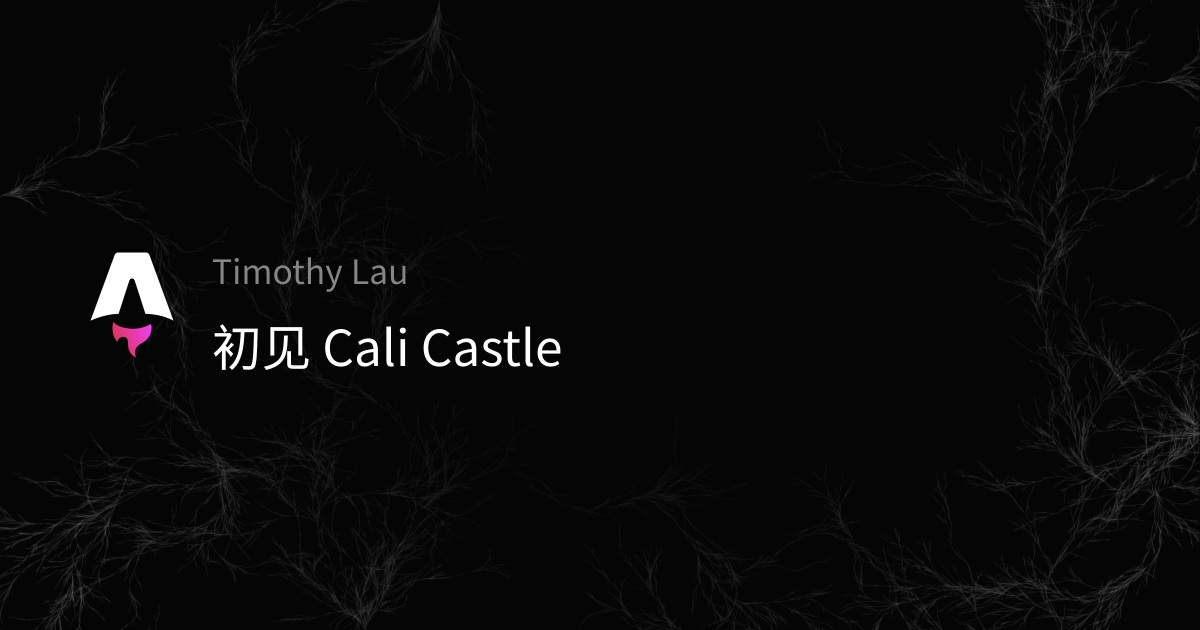
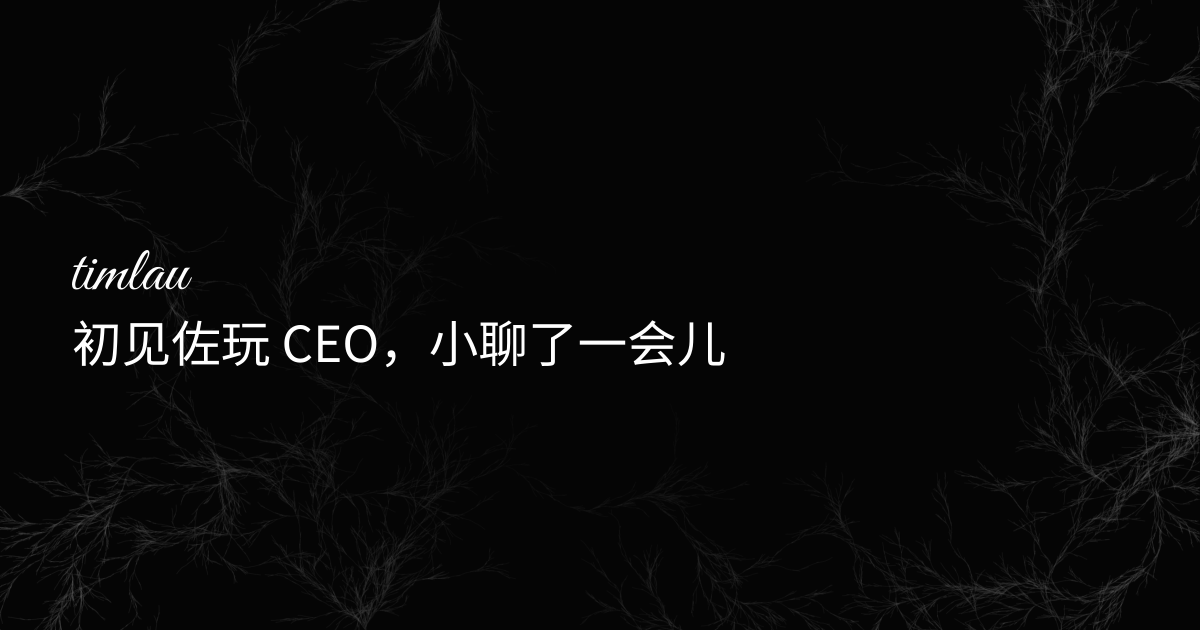
feat: update blog metadata to enable Giscus comments for multiple posts

Changed region(s): [[0.0617, 0.3921, 0.6167, 0.6032]]

diff --git a/plugins/og-template/markup.ts b/plugins/og-template/markup.ts
@@ -4,7 +4,7 @@ import backgroundBase64 from './base64'
 import type { BgType } from '../../src/types'
 
 export const ogImageMarkup = (
-  authorOrBrand: string,
+  _authorOrBrand: string,
   title: string,
   bgType: BgType
 ) => {
@@ -24,40 +24,21 @@ export const ogImageMarkup = (
     />
 
     <div tw="flex items-center justify-start w-full px-18" style="gap: 20px">
-      <div tw="self-start flex justify-center items-center">
-        <svg
-          xmlns="http://www.w3.org/2000/svg"
-          width="7.5em"
-          height="7.5em"
-          viewBox="0 0 32 32"
-        >
-          <path
-            fill="url(#vscodeIconsFileTypeAstro0)"
-            d="M11.025 20.499c-.532 1.75-.154 4.184 1.105 5.331v-.042l.042-.112c.154-.741.756-1.203 1.526-1.175c.713.014 1.12.392 1.217 1.217c.042.308.042.616.056.938v.098c0 .7.196 1.371.588 1.959c.35.56.84.993 1.497 1.287l-.028-.056l-.028-.112c-.49-1.469-.14-2.49 1.147-3.358l.392-.266l.868-.573a4.25 4.25 0 0 0 1.791-3.037c.07-.532 0-1.05-.154-1.553l-.21.14c-1.945 1.035-4.17 1.4-6.325.98c-1.301-.197-2.56-.56-3.498-1.652z"
-          ></path>
-          <path
-            fill="#fff"
-            d="M4.925 20.191s3.736-1.82 7.486-1.82l2.84-8.759c.098-.42.406-.7.756-.7s.644.28.756.714l2.826 8.746c4.45 0 7.487 1.82 7.487 1.82L20.709 2.84c-.168-.518-.49-.84-.896-.84h-7.612c-.406 0-.7.322-.896.84z"
-          ></path>
-          <defs>
-            <linearGradient
-              id="vscodeIconsFileTypeAstro0"
-              x1="8.19"
-              x2="16.91"
-              y1="23"
-              y2="18.89"
-              gradientTransform="translate(-.673 -2.198)scale(1.3993)"
-              gradientUnits="userSpaceOnUse"
-            >
-              <stop offset="0" stop-color="#d83333"></stop>
-              <stop offset="1" stop-color="#f041ff"></stop>
-            </linearGradient>
-          </defs>
-        </svg>
-      </div>
-
       <div tw="flex flex-col" style="gap: 10px">
-        <div tw="text-[#858585] text-2.1rem">${authorOrBrand}</div>
+        <svg
+          width="7.5rem"
+          height="2.5rem"
+          viewBox="0 0 237 82"
+          xmlns="http://www.w3.org/2000/svg"
+          aria-hidden="true"
+        >
+          <g id="svgGroup" class="dark:fill-[#fdfdfd]" fill="#fdfdfd">
+            <path
+              vector-effect="non-scaling-stroke"
+              d="M29.696 12.928C28.5867 14.5493 27.3493 16.5973 25.984 19.072C24.6187 21.5467 23.3387 23.936 22.144 26.24C21.0347 28.544 20.1813 30.2933 19.584 31.488H31.36C31.36 31.8293 31.1893 32.384 30.848 33.152C30.592 33.92 30.0373 34.4747 29.184 34.816H18.048C17.024 37.12 15.8293 39.8933 14.464 43.136C13.184 46.3787 11.904 49.7493 10.624 53.248C9.42934 56.7467 8.40534 60.032 7.55201 63.104C6.78401 66.0907 6.40001 68.5227 6.40001 70.4C6.40001 72.96 6.74134 74.88 7.42401 76.16C8.10668 77.3547 9.34401 77.952 11.136 77.952C13.44 77.952 15.6587 76.8427 17.792 74.624C19.9253 72.32 21.9307 69.4613 23.808 66.048C25.7707 62.6347 27.4773 59.2213 28.928 55.808C29.952 55.808 30.464 56.192 30.464 56.96C29.5253 59.264 28.3733 61.7813 27.008 64.512C25.6427 67.2427 24.064 69.888 22.272 72.448C20.5653 74.9227 18.6027 76.9707 16.384 78.592C14.2507 80.128 11.8613 80.896 9.21601 80.896C5.63201 80.896 3.20001 79.9147 1.92001 77.952C0.640011 75.904 1.04904e-05 73.3013 1.04904e-05 70.144C1.04904e-05 67.84 0.426677 65.0667 1.28001 61.824C2.13334 58.496 3.15734 55.0827 4.35201 51.584C5.63201 48.0853 6.86934 44.8427 8.06401 41.856C9.25868 38.784 10.1973 36.4373 10.88 34.816H2.68801C2.68801 34.1333 2.98668 33.408 3.58401 32.64C4.18134 31.872 4.82134 31.488 5.50401 31.488H12.288C12.9707 30.1227 13.7387 28.416 14.592 26.368C15.5307 24.32 16.768 22.0587 18.304 19.584C19.584 17.536 21.2053 15.9147 23.168 14.72C25.216 13.5253 27.392 12.928 29.696 12.928ZM32.534 80.512C29.3767 80.512 27.158 79.616 25.878 77.824C24.598 75.9467 23.958 73.8133 23.958 71.424C23.958 70.144 24.086 68.864 24.342 67.584C24.6833 66.2187 25.0673 64.9813 25.494 63.872L34.07 41.984C34.326 41.3013 34.454 40.704 34.454 40.192C34.454 39.3387 34.2407 38.6133 33.814 38.016C33.3873 37.3333 33.0887 36.864 32.918 36.608L39.958 36.352C41.238 36.2667 42.134 36.4373 42.646 36.864C43.2433 37.2053 43.542 37.632 43.542 38.144C43.542 38.656 43.2433 39.5947 42.646 40.96C41.7927 43.008 40.6407 45.568 39.19 48.64C37.7393 51.712 36.2887 54.8693 34.838 58.112C33.4727 61.3547 32.278 64.384 31.254 67.2C30.3153 70.016 29.846 72.192 29.846 73.728C29.846 74.8373 30.102 75.776 30.614 76.544C31.2113 77.312 32.1927 77.696 33.558 77.696C35.35 77.696 37.0993 77.0133 38.806 75.648C40.598 74.1973 42.262 72.3627 43.798 70.144C45.334 67.9253 46.742 65.536 48.022 62.976C49.3873 60.416 50.5393 58.0267 51.478 55.808C52.502 55.808 53.014 56.192 53.014 56.96C52.1607 59.0933 51.0513 61.5253 49.686 64.256C48.3207 66.9867 46.742 69.5893 44.95 72.064C43.2433 74.4533 41.3233 76.4587 39.19 78.08C37.142 79.7013 34.9233 80.512 32.534 80.512ZM43.926 28.416C42.8167 28.416 41.8353 27.9893 40.982 27.136C40.214 26.2827 39.83 25.2587 39.83 24.064C39.83 22.6133 40.4273 21.3333 41.622 20.224C42.8167 19.0293 44.1393 18.432 45.59 18.432C46.7847 18.432 47.8087 18.816 48.662 19.584C49.5153 20.352 49.942 21.3333 49.942 22.528C49.942 24.064 49.3447 25.4293 48.15 26.624C46.9553 27.8187 45.5473 28.416 43.926 28.416ZM39.034 81.152C42.1913 75.0933 45.178 69.0347 47.994 62.976C50.81 56.832 53.6687 51.0293 56.57 45.568C58.2767 42.496 59.6847 40.3627 60.794 39.168C61.9887 37.888 63.5673 37.248 65.53 37.248C66.2127 37.248 66.938 37.376 67.706 37.632C68.474 37.8027 69.242 37.888 70.01 37.888C70.522 37.888 70.906 37.8453 71.162 37.76C69.9673 38.4427 68.4313 40.1493 66.554 42.88C64.6767 45.5253 62.7567 48.5973 60.794 52.096C58.8313 55.5947 57.082 58.88 55.546 61.952C57.1673 59.9893 58.8313 58.0267 60.538 56.064C62.33 54.1013 64.2927 52.224 66.426 50.432C68.3033 48.8107 70.266 47.0613 72.314 45.184C74.4473 43.2213 76.538 41.5573 78.586 40.192C80.634 38.8267 82.426 38.144 83.962 38.144C84.5593 38.144 84.9433 38.1867 85.114 38.272C86.7353 38.9547 87.546 40.064 87.546 41.6C87.546 42.112 87.3327 42.88 86.906 43.904C85.7967 46.8053 84.346 49.792 82.554 52.864C80.8473 55.8507 79.226 58.88 77.69 61.952C78.97 60.416 80.5487 58.5387 82.426 56.32C84.3887 54.1013 86.3513 52.1387 88.314 50.432C90.1913 48.7253 92.5807 46.9333 95.482 45.056C98.3833 43.1787 101.242 41.5573 104.058 40.192C106.874 38.8267 109.135 38.144 110.842 38.144C111.439 38.144 111.866 38.1867 112.122 38.272C112.122 38.272 111.653 39.1253 110.714 40.832C109.775 42.4533 108.581 44.6293 107.13 47.36C105.765 50.0053 104.357 52.864 102.906 55.936C101.455 58.9227 100.133 61.824 98.938 64.64C97.8287 67.3707 97.1033 69.6747 96.762 71.552C96.506 72.6613 96.378 73.6853 96.378 74.624C96.378 75.9893 96.634 76.8853 97.146 77.312C97.658 77.7387 98.2127 77.952 98.81 77.952C100.517 77.952 102.181 77.2267 103.802 75.776C105.509 74.3253 107.173 72.4907 108.794 70.272C110.415 67.968 111.866 65.536 113.146 62.976C114.511 60.416 115.663 58.0267 116.602 55.808C117.626 55.808 118.138 56.192 118.138 56.96C117.199 59.264 116.005 61.824 114.554 64.64C113.189 67.3707 111.61 69.9733 109.818 72.448C108.026 74.9227 106.063 76.9707 103.93 78.592C101.797 80.2133 99.4927 81.024 97.018 81.024C95.226 81.024 93.5193 80.4267 91.898 79.232C90.362 78.0373 89.594 75.8187 89.594 72.576C89.594 69.0773 90.4047 65.5787 92.026 62.08C93.7327 58.5813 95.482 55.3813 97.274 52.48C98.1273 51.0293 98.554 49.8773 98.554 49.024C98.554 48 98.042 47.488 97.018 47.488C96.1647 47.488 94.97 47.9147 93.434 48.768C91.9833 49.6213 90.1487 51.1147 87.93 53.248C86.5647 54.528 84.9433 56.32 83.066 58.624C81.274 60.8427 79.4393 63.2747 77.562 65.92C75.6847 68.5653 74.0633 71.168 72.698 73.728C71.3327 76.288 70.4367 78.5493 70.01 80.512C68.73 80.512 67.706 80 66.938 78.976C66.17 77.8667 65.786 76.5867 65.786 75.136C65.786 74.88 65.786 74.624 65.786 74.368C65.786 74.112 65.8287 73.8133 65.914 73.472C66.3407 70.8267 67.0233 68.608 67.962 66.816C68.9007 64.9387 69.9673 62.7627 71.162 60.288C71.7593 59.1787 72.442 57.8987 73.21 56.448C73.978 54.912 74.6607 53.4613 75.258 52.096C75.8553 50.6453 76.154 49.4507 76.154 48.512C76.154 47.6587 75.8127 47.232 75.13 47.232C74.362 47.232 73.338 47.616 72.058 48.384C70.8633 49.152 69.7113 50.048 68.602 51.072C67.4927 52.0107 66.6393 52.736 66.042 53.248C63.9087 55.296 61.306 58.24 58.234 62.08C55.2473 65.92 51.962 71.3813 48.378 78.464C47.866 79.4027 47.2687 80 46.586 80.256C45.9033 80.4267 44.8367 80.512 43.386 80.512C42.4473 80.512 41.6793 80.512 41.082 80.512C40.3993 80.5973 39.7167 80.8107 39.034 81.152ZM122.591 80.896C119.434 80.896 117.087 79.9573 115.551 78.08C114.1 76.1173 113.375 73.8133 113.375 71.168C113.375 68.4373 113.759 65.6213 114.527 62.72C115.295 59.8187 115.978 57.3867 116.575 55.424C117.94 50.6453 119.647 45.568 121.695 40.192C123.828 34.7307 126.132 29.3973 128.607 24.192C131.167 18.9013 133.684 14.1653 136.159 9.98399C138.122 6.65599 140.212 4.18132 142.431 2.55999C144.735 0.853325 146.74 -7.62939e-06 148.447 -7.62939e-06C149.812 -7.62939e-06 150.879 0.511991 151.647 1.53599C152.5 2.47466 152.927 3.92533 152.927 5.88799C152.927 7.25332 152.671 8.87466 152.159 10.752C151.732 12.6293 150.964 14.7627 149.855 17.152C146.868 23.808 143.284 30.464 139.103 37.12C135.007 43.776 129.802 50.0053 123.487 55.808C122.463 58.1973 121.61 60.7573 120.927 63.488C120.244 66.2187 119.903 68.4373 119.903 70.144C119.903 75.4347 121.695 78.08 125.279 78.08C128.01 78.08 131.039 76.1173 134.367 72.192C137.695 68.1813 140.852 62.72 143.839 55.808C144.18 55.808 144.522 55.8933 144.863 56.064C145.204 56.1493 145.375 56.448 145.375 56.96C144.436 59.264 143.242 61.824 141.791 64.64C140.426 67.3707 138.804 69.9733 136.927 72.448C135.135 74.9227 133.044 76.9707 130.655 78.592C128.266 80.128 125.578 80.896 122.591 80.896ZM124.511 51.712C127.583 48.5547 130.57 44.928 133.471 40.832C136.372 36.6507 139.06 32.3413 141.535 27.904C144.095 23.3813 146.228 19.1147 147.935 15.104C148.532 13.824 149.002 12.416 149.343 10.88C149.77 9.34399 149.983 8.06399 149.983 7.03999C149.983 5.84533 149.684 5.24799 149.087 5.24799C148.746 5.24799 148.234 5.58932 147.551 6.27199C146.868 6.86932 145.972 7.93599 144.863 9.47199C143.242 11.6053 141.45 14.5067 139.487 18.176C137.61 21.8453 135.69 25.7707 133.727 29.952C131.764 34.1333 129.972 38.1867 128.351 42.112C126.73 45.952 125.45 49.152 124.511 51.712ZM171.601 80.896C169.638 80.896 167.889 80.3413 166.353 79.232C164.902 78.1227 164.177 75.8613 164.177 72.448C164.177 70.9973 164.262 69.632 164.433 68.352C164.689 67.072 164.988 65.7067 165.329 64.256C164.561 65.536 163.494 67.1147 162.129 68.992C160.764 70.8693 159.228 72.704 157.521 74.496C155.9 76.288 154.193 77.7813 152.401 78.976C150.694 80.1707 149.073 80.768 147.537 80.768C145.318 80.768 143.526 79.7867 142.161 77.824C140.796 75.776 140.113 73.1307 140.113 69.888C140.113 66.3893 140.924 62.6347 142.545 58.624C144.166 54.6133 146.385 50.7733 149.201 47.104C152.017 43.4347 155.26 40.448 158.929 38.144C162.598 35.84 166.438 34.688 170.449 34.688C172.412 34.688 174.289 35.0293 176.081 35.712C177.873 36.3093 179.452 37.3333 180.817 38.784C181.414 39.3813 181.713 40.064 181.713 40.832C181.713 41.344 181.5 41.7707 181.073 42.112C180.646 42.4533 180.092 42.5387 179.409 42.368C178.47 39.3813 176.465 37.888 173.393 37.888C171.942 37.888 170.278 38.3573 168.401 39.296C166.097 40.4907 163.622 42.4107 160.977 45.056C158.417 47.616 155.985 50.56 153.681 53.888C151.462 57.1307 149.628 60.416 148.177 63.744C146.726 67.072 146.001 70.1013 146.001 72.832C146.001 75.648 147.068 77.056 149.201 77.056C151.078 77.056 152.998 76.16 154.961 74.368C157.009 72.576 158.929 70.3573 160.721 67.712C162.598 64.9813 164.305 62.2933 165.841 59.648C167.377 57.0027 168.572 54.8693 169.425 53.248C170.705 50.944 171.9 49.024 173.009 47.488C174.118 45.952 175.697 45.184 177.745 45.184C178.684 45.184 179.622 45.312 180.561 45.568C181.5 45.824 182.481 45.8667 183.505 45.696C180.945 48.256 178.684 51.2853 176.721 54.784C174.844 58.2827 173.393 61.7387 172.369 65.152C171.345 68.48 170.833 71.296 170.833 73.6C170.833 76.16 171.686 77.44 173.393 77.44C174.758 77.44 176.209 76.672 177.745 75.136C179.366 73.6 180.902 71.68 182.353 69.376C183.889 66.9867 185.297 64.5973 186.577 62.208C187.857 59.7333 188.881 57.6 189.649 55.808C190.076 55.808 190.417 55.8507 190.673 55.936C191.014 56.0213 191.185 56.3627 191.185 56.96C191.1 57.3013 190.929 57.6853 190.673 58.112C190.502 58.4533 190.204 59.0933 189.777 60.032C189.094 61.3973 188.156 63.232 186.961 65.536C185.766 67.84 184.358 70.1867 182.737 72.576C181.116 74.88 179.366 76.8427 177.489 78.464C175.612 80.0853 173.649 80.896 171.601 80.896ZM193.412 80.512C192.473 80.512 191.321 80.2987 189.956 79.872C188.676 79.4453 187.524 78.6773 186.5 77.568C185.561 76.3733 185.092 74.624 185.092 72.32C185.092 70.1013 185.817 67.5413 187.268 64.64C188.719 61.7387 189.999 59.1787 191.108 56.96C190.169 56.96 189.7 56.576 189.7 55.808C189.785 55.552 190.169 54.7413 190.852 53.376C191.535 52.0107 192.345 50.3893 193.284 48.512C194.223 46.6347 195.119 44.8427 195.972 43.136C196.911 41.344 197.636 39.9787 198.148 39.04C199.172 37.1627 200.793 36.224 203.012 36.224H210.948C209.497 37.3333 208.175 38.5707 206.98 39.936C205.871 41.216 204.463 43.6053 202.756 47.104C202.756 47.104 202.457 47.7013 201.86 48.896C201.263 50.0907 200.495 51.6267 199.556 53.504C198.703 55.296 197.807 57.1307 196.868 59.008C196.015 60.8853 195.289 62.464 194.692 63.744C193.583 66.1333 192.857 68.0533 192.516 69.504C192.175 70.8693 192.004 72.1493 192.004 73.344C192.004 76.16 192.943 77.568 194.82 77.568C196.868 77.568 199.343 75.904 202.244 72.576C204.633 69.76 206.98 66.3893 209.284 62.464C211.588 58.5387 213.764 54.4853 215.812 50.304C217.945 46.1227 219.823 42.368 221.444 39.04C222.383 37.1627 224.047 36.224 226.436 36.224H233.476C231.599 37.76 229.679 40.064 227.716 43.136C225.839 46.208 223.748 50.1333 221.444 54.912C220.847 56.192 220.079 57.8133 219.14 59.776C218.201 61.7387 217.348 63.8293 216.58 66.048C215.897 68.2667 215.556 70.4853 215.556 72.704C215.556 75.6907 216.623 77.184 218.756 77.184C221.657 77.184 224.473 75.1787 227.204 71.168C229.935 67.1573 232.623 62.0373 235.268 55.808C235.951 55.808 236.335 55.8507 236.42 55.936C236.591 56.0213 236.719 56.3627 236.804 56.96C235.865 59.264 234.713 61.7813 233.348 64.512C232.068 67.1573 230.575 69.7173 228.868 72.192C227.247 74.6667 225.412 76.672 223.364 78.208C221.401 79.744 219.225 80.512 216.836 80.512C214.703 80.512 212.953 79.744 211.588 78.208C210.223 76.5867 209.54 74.3253 209.54 71.424C209.54 69.12 209.967 66.6453 210.82 64C209.369 66.56 207.705 69.12 205.828 71.68C203.951 74.24 201.945 76.3733 199.812 78.08C197.679 79.7013 195.545 80.512 193.412 80.512Z"
+            ></path>
+          </g>
+        </svg>
         <div tw="text-white text-3.1rem leading-relaxed mr-18">${title}</div>
       </div>
     </div>

diff --git a/src/config.ts b/src/config.ts
@@ -147,8 +147,8 @@ export const FEATURES: Features = {
   share: [
     true,
     {
-      twitter: [true, '@ste7lin'],
-      bluesky: [true, '@ste7lin.bsky.social'],
+      twitter: [true, '@thetimothylau'],
+      bluesky: [true, '@timlau.me'],
       mastodon: false,
       facebook: false,
       pinterest: false,
@@ -161,16 +161,16 @@ export const FEATURES: Features = {
   giscus: [
     true,
     {
-      'data-repo': 'lin-stephanie/astro-antfustyle-theme',
-      'data-repo-id': 'R_kgDOLylKbA',
-      'data-category': 'Giscus',
-      'data-category-id': 'DIC_kwDOLylKbM4Cpugn',
+      'data-repo': '0xlau/timlau.me',
+      'data-repo-id': 'R_kgDONS1p_A',
+      'data-category': 'Announcements',
+      'data-category-id': 'DIC_kwDONS1p_M4C2cH6',
       'data-mapping': 'title',
       'data-strict': '0',
       'data-reactions-enabled': '1',
       'data-emit-metadata': '0',
       'data-input-position': 'bottom',
-      'data-lang': 'en',
+      'data-lang': 'zh-CN',
     },
   ],
   search: [

diff --git a/src/content/blog/2026-vibe-coding.md b/src/content/blog/2026-vibe-coding.md
@@ -6,7 +6,7 @@ lastModDate: ''
 ogImage: true
 toc: true
 share: true
-giscus: false
+giscus: true
 search: false
 ---
 

diff --git a/src/content/blog/adventurex-2025.md b/src/content/blog/adventurex-2025.md
@@ -6,7 +6,7 @@ lastModDate: ''
 ogImage: true
 toc: true
 share: true
-giscus: false
+giscus: true
 search: false
 ---
 

diff --git a/src/content/blog/ctrip-sign.md b/src/content/blog/ctrip-sign.md
@@ -6,7 +6,7 @@ lastModDate: ''
 ogImage: true
 toc: true
 share: true
-giscus: false
+giscus: true
 search: false
 ---
 

diff --git a/src/content/blog/cyandev-ctf.md b/src/content/blog/cyandev-ctf.md
@@ -6,7 +6,7 @@ lastModDate: ''
 ogImage: true
 toc: true
 share: true
-giscus: false
+giscus: true
 search: false
 ---
 

diff --git a/src/content/blog/dromara-certificate.md b/src/content/blog/dromara-certificate.md
@@ -6,7 +6,7 @@ lastModDate: ''
 ogImage: true
 toc: true
 share: true
-giscus: false
+giscus: true
 search: false
 ---
 

diff --git a/src/content/blog/geetest.md b/src/content/blog/geetest.md
@@ -6,7 +6,7 @@ lastModDate: ''
 ogImage: true
 toc: true
 share: true
-giscus: false
+giscus: true
 search: false
 ---
 

diff --git a/src/content/blog/old-life.md b/src/content/blog/old-life.md
@@ -6,7 +6,7 @@ lastModDate: ''
 ogImage: true
 toc: true
 share: true
-giscus: false
+giscus: true
 search: false
 ---
 
